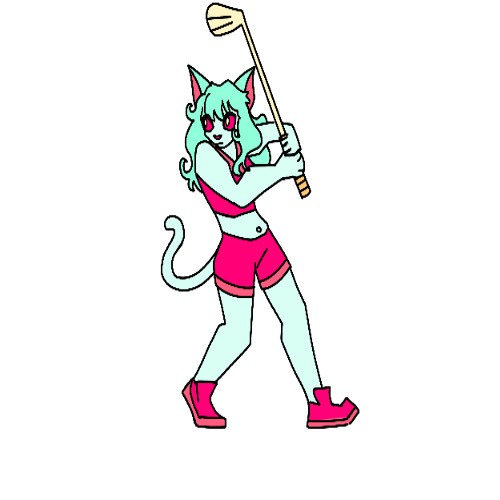
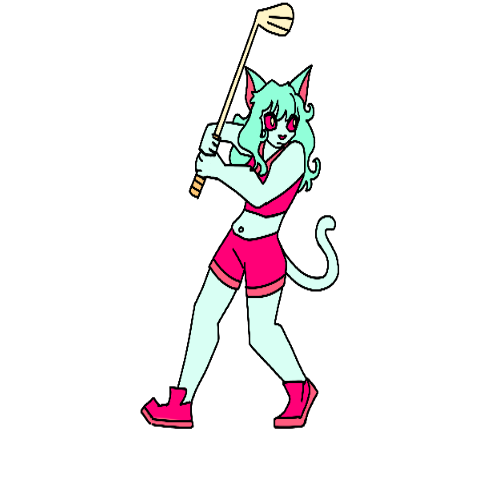
less copy paste for flipping frames

Changed region(s): [[0.27, 0.0, 0.72, 0.87]]

diff --git a/game_objects.py b/game_objects.py
@@ -105,11 +105,16 @@ class Player(EntityMovable):
         self.moving = 0 #nonzero if needs to move
         self.jumping = 0 #positive if we need to jump
 
-        self.sprite = [{"idlel": pygame.image.load("./assets/imgs/cat1idle.png").convert_alpha(), "airl": pygame.image.load("./assets/imgs/cat1air.png").convert_alpha()},
-                       {"idler": pygame.image.load("./assets/imgs/cat2idle.png").convert_alpha(), "airr": pygame.image.load("./assets/imgs/cat2air.png").convert_alpha()}]
+        self.sprite = [{"idler": pygame.image.load("./assets/imgs/cat1idle.png").convert_alpha(), "airr": pygame.image.load("./assets/imgs/cat1air.png").convert_alpha()},
+                       {"idler": pygame.image.load("./assets/imgs/cat2idle.png").convert_alpha(), "airr": pygame.image.load("./assets/imgs/cat2air.png").convert_alpha()}] #load in drawn frames
 
-        self.sprite[0].update({"idler": pygame.transform.flip(self.sprite[0]["idlel"], True, False), "airr": pygame.transform.flip(self.sprite[0]["airl"], True, False)})
-        self.sprite[1].update({"idlel": pygame.transform.flip(self.sprite[1]["idler"], True, False), "airl": pygame.transform.flip(self.sprite[1]["airr"], True, False)})
+        for s in ["idle", "air"]:
+            for c in [0, 1]:
+                self.sprite[c].update({s + "l": pygame.transform.flip(self.sprite[c][s+"r"], True, False)})
+                #mirrors frames
+
+        #self.sprite[0].update({"idler": pygame.transform.flip(self.sprite[0]["idlel"], True, False), "airr": pygame.transform.flip(self.sprite[0]["airl"], True, False)})
+        #self.sprite[1].update({"idlel": pygame.transform.flip(self.sprite[1]["idler"], True, False), "airl": pygame.transform.flip(self.sprite[1]["airr"], True, False)})
         #list of all possible frames. it's a list of dict's, #0 for cat 1 and #1 for cat 2, so we dont need 10000 if statements. indexed by id and mystate.
 
         self.mystate = "idle"
